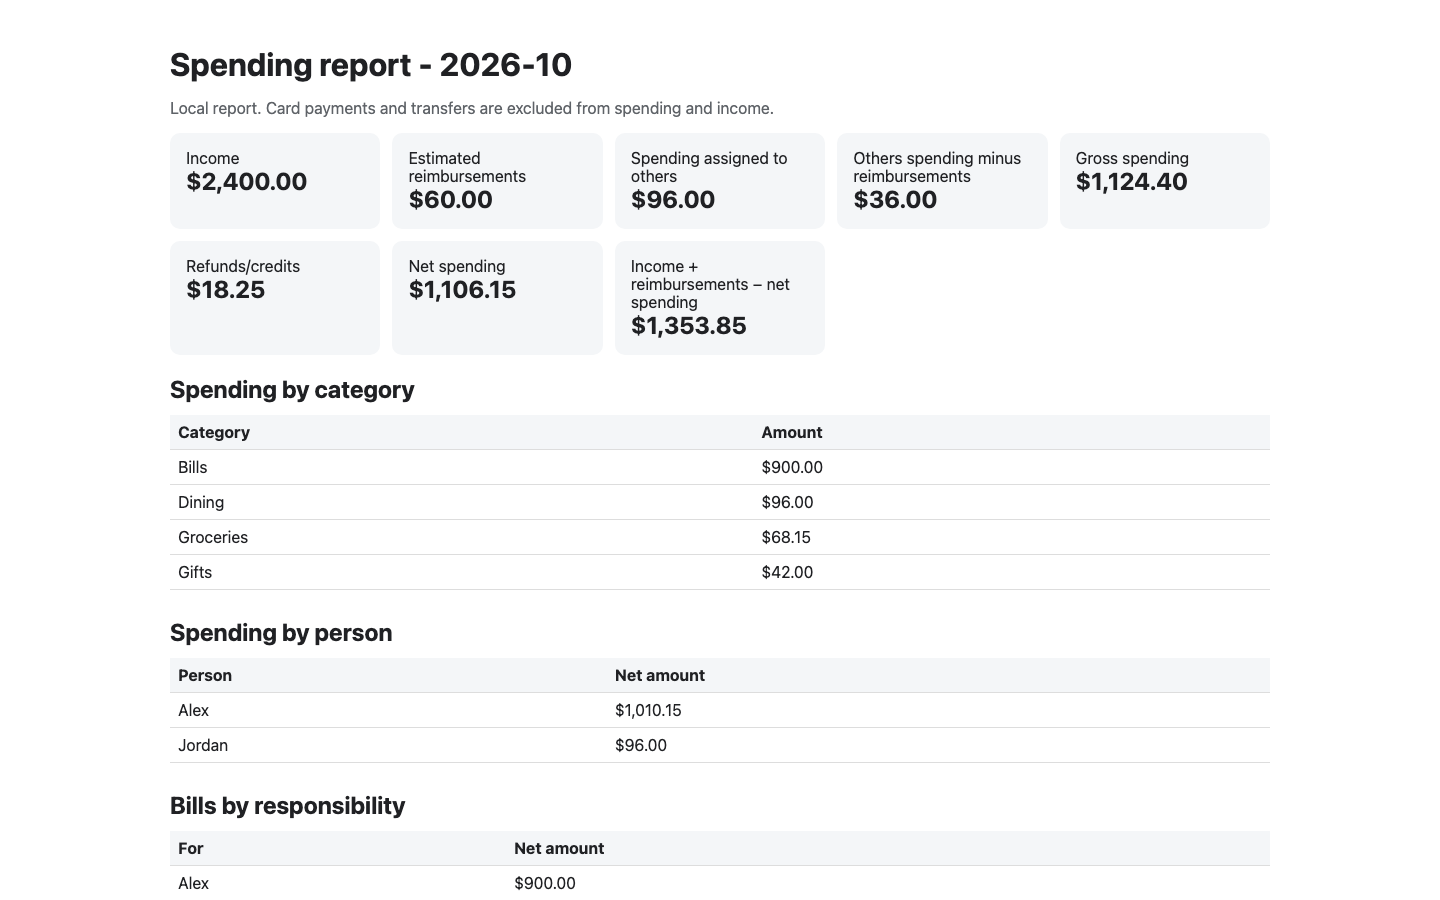
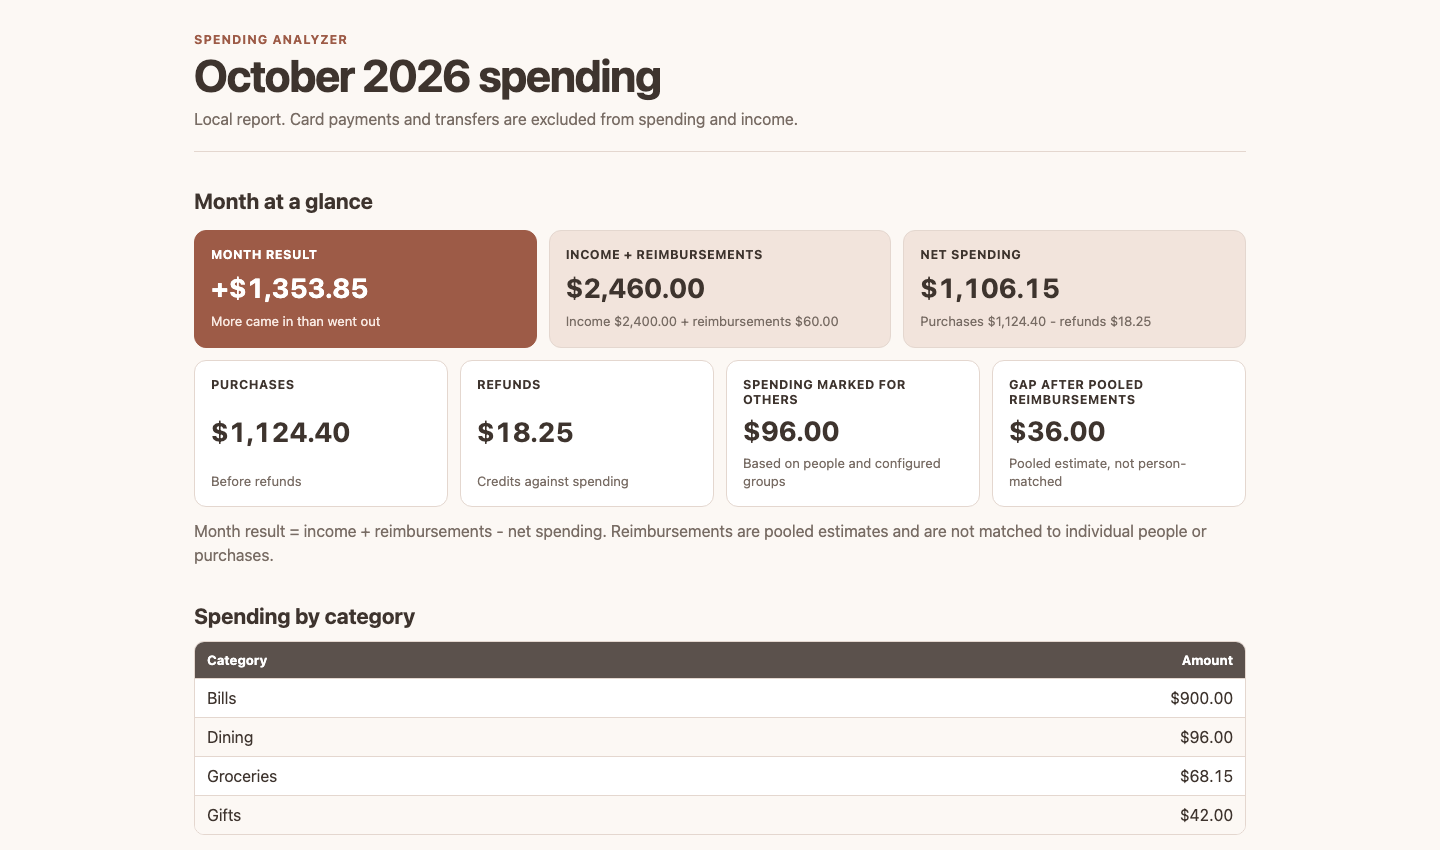
Refine the HTML monthly report

diff --git a/spending_analyzer/reports.py b/spending_analyzer/reports.py
@@ -136,26 +136,43 @@ def generate_html(
         f"<tr><td>{html.escape(person)}</td><td>${amount:,.2f}</td></tr>"
         for person, amount in sorted(summary["people_totals"].items())
     )
+    month_label = datetime.strptime(month, "%Y-%m").strftime("%B %Y")
+    month_result = summary["net_after_spending"]
+    if month_result > 0:
+        month_result_text = f"+${month_result:,.2f}"
+        month_result_context = "More came in than went out"
+    elif month_result < 0:
+        month_result_text = f"-${abs(month_result):,.2f}"
+        month_result_context = "More went out than came in"
+    else:
+        month_result_text = "$0.00"
+        month_result_context = "Money in and out were balanced"
+    pooled_gap = max(summary["other_people_after_reimbursements"], Decimal("0"))
     document = f"""<!doctype html>
 <html lang="en"><head><meta charset="utf-8"><meta name="viewport" content="width=device-width,initial-scale=1">
 <title>Spending report {month}</title>
-<style>body{{font-family:system-ui,sans-serif;max-width:1100px;margin:auto;padding:24px;color:#202124}}h1,h2{{margin-bottom:.4rem}}.cards{{display:grid;grid-template-columns:repeat(auto-fit,minmax(180px,1fr));gap:12px}}.card{{background:#f4f6f8;border-radius:10px;padding:16px}}.value{{font-size:1.5rem;font-weight:700}}table{{border-collapse:collapse;width:100%;margin:12px 0 28px}}th,td{{padding:8px;border-bottom:1px solid #ddd;text-align:left}}th{{background:#f4f6f8;position:sticky;top:0}}.note{{color:#5f6368}}</style></head>
-<body><h1>Spending report - {month}</h1><p class="note">Local report. Card payments and transfers are excluded from spending and income.</p>
-<div class="cards">
-<div class="card">Income<div class="value">${summary['income']:,.2f}</div></div>
-<div class="card">Estimated reimbursements<div class="value">${summary['reimbursements']:,.2f}</div></div>
-<div class="card">Spending assigned to others<div class="value">${summary['other_people_spending']:,.2f}</div></div>
-<div class="card">Others spending minus reimbursements<div class="value">${summary['other_people_after_reimbursements']:,.2f}</div></div>
-<div class="card">Gross spending<div class="value">${summary['spending']:,.2f}</div></div>
-<div class="card">Refunds/credits<div class="value">${summary['refunds']:,.2f}</div></div>
-<div class="card">Net spending<div class="value">${summary['net_spending']:,.2f}</div></div>
-<div class="card">Income + reimbursements − net spending<div class="value">${summary['net_after_spending']:,.2f}</div></div>
+<style>
+*{{box-sizing:border-box}}body{{font-family:system-ui,-apple-system,sans-serif;max-width:1100px;margin:auto;padding:32px 24px 56px;color:#3e342e;background:#fcf8f4}}header{{padding-bottom:20px;border-bottom:1px solid #e4d7cf}}h1{{margin:2px 0 6px;font-size:clamp(2rem,5vw,2.8rem);letter-spacing:-.03em}}h2{{margin:36px 0 12px;font-size:1.35rem}}.eyebrow{{margin:0;color:#9d5b47;font-size:.78rem;font-weight:700;letter-spacing:.08em;text-transform:uppercase}}.note,.context{{color:#786c64}}.note{{margin:0;line-height:1.5}}.cards{{display:grid;gap:12px;margin-top:16px}}.key-cards{{grid-template-columns:repeat(3,minmax(0,1fr))}}.detail-cards{{grid-template-columns:repeat(4,minmax(0,1fr));margin-top:12px}}.card{{display:flex;min-height:118px;flex-direction:column;justify-content:space-between;padding:16px;background:#fff;border:1px solid #e4d7cf;border-radius:12px}}.card.key{{color:#fff;background:#9d5b47;border-color:#9d5b47}}.card.soft{{background:#f2e4dc}}.label{{font-size:.78rem;font-weight:700;letter-spacing:.04em;text-transform:uppercase}}.value{{margin:8px 0;font-size:1.7rem;font-weight:700;font-variant-numeric:tabular-nums}}.context{{font-size:.82rem;line-height:1.35}}.key .context{{color:#f8e9e2}}.reimbursement-note{{margin-top:12px}}.table-scroll{{overflow-x:auto;margin:12px 0 30px;border:1px solid #e4d7cf;border-radius:10px;background:#fff}}table{{border-collapse:collapse;width:100%}}th,td{{padding:10px 12px;border-bottom:1px solid #e4d7cf;text-align:left}}th{{color:#fff;background:#5b514c;font-size:.82rem}}tbody tr:nth-child(even){{background:#fcf8f4}}tbody tr:last-child td{{border-bottom:0}}th:last-child,td:last-child{{text-align:right;font-variant-numeric:tabular-nums}}.transactions{{min-width:780px}}@media(max-width:760px){{body{{padding:24px 16px 44px}}.key-cards,.detail-cards{{grid-template-columns:repeat(2,minmax(0,1fr))}}}}@media(max-width:460px){{.key-cards,.detail-cards{{grid-template-columns:1fr}}.card{{min-height:104px}}}}
+</style></head>
+<body><header><p class="eyebrow">Spending Analyzer</p><h1>{month_label} spending</h1><p class="note">Local report. Card payments and transfers are excluded from spending and income.</p></header>
+<main><h2>Month at a glance</h2>
+<div class="cards key-cards">
+<div class="card key"><div class="label">Month result</div><div class="value">{month_result_text}</div><div class="context">{month_result_context}</div></div>
+<div class="card soft"><div class="label">Income + reimbursements</div><div class="value">${summary['income'] + summary['reimbursements']:,.2f}</div><div class="context">Income ${summary['income']:,.2f} + reimbursements ${summary['reimbursements']:,.2f}</div></div>
+<div class="card soft"><div class="label">Net spending</div><div class="value">${summary['net_spending']:,.2f}</div><div class="context">Purchases ${summary['spending']:,.2f} - refunds ${summary['refunds']:,.2f}</div></div>
 </div>
-<h2>Spending by category</h2><table><thead><tr><th>Category</th><th>Amount</th></tr></thead><tbody>{category_rows}</tbody></table>
-<h2>Spending by person</h2><table><thead><tr><th>Person</th><th>Net amount</th></tr></thead><tbody>{people_rows}</tbody></table>
-<h2>Bills by responsibility</h2><table><thead><tr><th>For</th><th>Net amount</th></tr></thead><tbody>{bill_rows}</tbody></table>
-<h2>All transactions</h2><table><thead><tr><th>Date</th><th>Account</th><th>Description</th><th>Kind</th><th>Category</th><th>For</th><th>Original amount</th></tr></thead><tbody>{''.join(rows)}</tbody></table>
-</body></html>"""
+<div class="cards detail-cards">
+<div class="card"><div class="label">Purchases</div><div class="value">${summary['spending']:,.2f}</div><div class="context">Before refunds</div></div>
+<div class="card"><div class="label">Refunds</div><div class="value">${summary['refunds']:,.2f}</div><div class="context">Credits against spending</div></div>
+<div class="card"><div class="label">Spending marked for others</div><div class="value">${summary['other_people_spending']:,.2f}</div><div class="context">Based on people and configured groups</div></div>
+<div class="card"><div class="label">Gap after pooled reimbursements</div><div class="value">${pooled_gap:,.2f}</div><div class="context">Pooled estimate, not person-matched</div></div>
+</div>
+<p class="note reimbursement-note">Month result = income + reimbursements - net spending. Reimbursements are pooled estimates and are not matched to individual people or purchases.</p>
+<h2>Spending by category</h2><div class="table-scroll"><table><thead><tr><th>Category</th><th>Amount</th></tr></thead><tbody>{category_rows}</tbody></table></div>
+<h2>Spending by person</h2><div class="table-scroll"><table><thead><tr><th>Person</th><th>Net amount</th></tr></thead><tbody>{people_rows}</tbody></table></div>
+<h2>Bills by responsibility</h2><div class="table-scroll"><table><thead><tr><th>For</th><th>Net amount</th></tr></thead><tbody>{bill_rows}</tbody></table></div>
+<h2>All transactions</h2><div class="table-scroll"><table class="transactions"><thead><tr><th>Date</th><th>Account</th><th>Description</th><th>Kind</th><th>Category</th><th>For</th><th>Original amount</th></tr></thead><tbody>{''.join(rows)}</tbody></table></div>
+</main></body></html>"""
     destination.write_text(document, encoding="utf-8")
 
 

diff --git a/tests/test_spending_analyzer.py b/tests/test_spending_analyzer.py
@@ -1240,6 +1240,39 @@ application.process(Path(sys.argv[1]), non_interactive=True)
         self.assertEqual(summary["other_people_spending"], analyzer.money("50"))
         self.assertEqual(summary["other_people_after_reimbursements"], analyzer.money("15"))
 
+    def test_html_report_has_a_clear_responsive_monthly_summary(self):
+        transactions = [
+            {
+                "provider": "apple", "account": "apple", "date": "2026-07-01",
+                "post_date": "2026-07-01", "description": "FICTIONAL DINNER",
+                "kind": "expense", "raw_amount": "80", "category": "Dining",
+                "responsibility": "Alex", "identifier": "FICTIONAL DINNER",
+                "bank_category": "Test", "bank_type": "Purchase", "splits": [],
+            },
+            {
+                "provider": "chase_checking", "account": "chase_checking",
+                "date": "2026-07-02", "post_date": "2026-07-02",
+                "description": "FICTIONAL REPAYMENT", "kind": "reimbursement",
+                "raw_amount": "50", "category": "Uncategorized", "responsibility": "",
+                "identifier": "FICTIONAL REPAYMENT", "bank_category": "",
+                "bank_type": "QuickPay credit", "splits": [],
+            },
+        ]
+        destination = self.root / "spending-report.html"
+        analyzer.generate_html(
+            "2026-07", transactions, destination, default_person="Primary",
+        )
+
+        report = destination.read_text(encoding="utf-8")
+        self.assertIn("July 2026 spending", report)
+        self.assertIn("Month result", report)
+        self.assertIn("-$30.00", report)
+        self.assertIn("More went out than came in", report)
+        self.assertIn("Gap after pooled reimbursements", report)
+        self.assertIn("Pooled estimate, not person-matched", report)
+        self.assertIn('class="table-scroll"', report)
+        self.assertIn("@media(max-width:460px)", report)
+
     def test_excel_bills_lists_dated_bills_under_each_person(self):
         transaction = {
             "provider": "apple", "account": "apple", "date": "2026-07-10",
